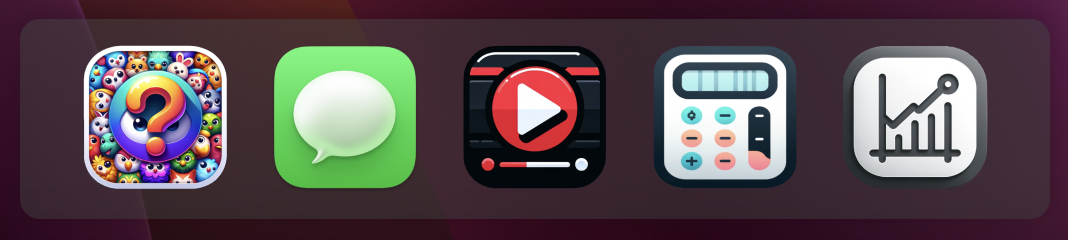
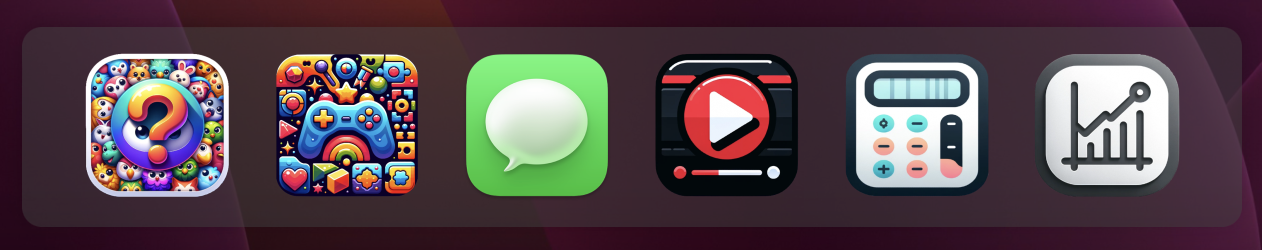
Added game center, a library with html games to play

diff --git a/src/js/gameselector.js b/src/js/gameselector.js
@@ -1,0 +1,90 @@
+/**
+ * Opens a game selection screen with previews for different games.
+ * @param {HTMLElement} container - The container element.
+ */
+export function openGameSelection(container) {
+  container.innerHTML = '';
+  const flappybirdDescription =
+  'Navigate a bird past pipes. ' +
+  'A challenging and addictive game.';
+  const fruitninjahdDescription =
+  'Slice fruits with a blade. ' +
+  'A fast-paced action game for reflexes.';
+  const duckshooterDescription =
+  'Shoot ducks rapidly, don’t miss any. ' +
+  'A nostalgic retro-style game.';
+  const flappybird = createGamePreview('Flappy Bird', 'https://freehtml5games.org/icons/flappy-bird.png', 'https://freehtml5games.org/games/flappy-bird/index.html', container, 330, 512, flappybirdDescription);
+  const fruitninjahd = createGamePreview('Fruit Ninja HD', 'https://freehtml5games.org/icons/fruit-ninja-hd.png', 'https://freehtml5games.org/games/fruit-ninja-hd/index.html', container, 640, 540, fruitninjahdDescription);
+  const duckshooter = createGamePreview('Duck Shooter', 'https://freehtml5games.org/icons/duck-shooter.png', 'https://freehtml5games.org/games/duck-shooter/index.html', container, 640, 360, duckshooterDescription);
+
+  // Append previews to the container
+  container.appendChild(flappybird);
+  container.appendChild(fruitninjahd);
+  container.appendChild(duckshooter);
+}
+
+/**
+ * Creates a game preview element with the specified properties.
+ *
+ * @param {string} title - The title of the game.
+ * @param {string} imageUrl - The URL of the game's image.
+ * @param {string} gameUrl - The URL of the game.
+ * @param {HTMLElement} container - The container element.
+ * @param {number} width - The width of the game container.
+ * @param {number} height - The height of the game container.
+ * @param {string} description - The description of the game.
+ * @return {HTMLElement} - The created game preview element.
+ */
+function createGamePreview(
+    title, imageUrl, gameUrl, container, width, height, description,
+) {
+  const previewContainer = document.createElement('div');
+  previewContainer.className = 'game-preview-container';
+
+  const preview = document.createElement('div');
+  preview.className = 'game-preview';
+  preview.title = title;
+  preview.style.backgroundImage = `url(${imageUrl})`;
+
+  // Create the description element
+  const descriptionElem = document.createElement('div');
+  descriptionElem.className = 'game-description';
+  descriptionElem.textContent = description;
+
+  // Event listener to load the game on click
+  const loadSelectedGame = () => loadGame(gameUrl, container, width, height);
+  preview.addEventListener('click', loadSelectedGame);
+
+  // Append the preview and description to the container
+  previewContainer.appendChild(preview);
+  previewContainer.appendChild(descriptionElem);
+
+  return previewContainer;
+}
+
+
+/**
+ * Loads a game into the specified container with the given dimensions.
+ * @param {string} gameUrl - The URL of the game to load.
+ * @param {HTMLElement} container - The container element to load the game into.
+ * @param {number} width - The width of the game iframe.
+ * @param {number} height - The height of the game iframe.
+ */
+function loadGame(gameUrl, container, width, height) {
+  const iframe = document.createElement('iframe');
+  container.innerHTML = '';
+  iframe.className = 'game-iframe';
+  iframe.src = gameUrl;
+  iframe.width = width;
+  iframe.height = height;
+  iframe.frameBorder = '0';
+  iframe.scrolling = 'no';
+  iframe.allowFullscreen = true;
+  iframe.style.display = 'block';
+
+  container.appendChild(iframe);
+  height = height + 33;
+  const detail = {width, height};
+  const gameSelectedEvent = new CustomEvent('gameSelected', {detail});
+  container.dispatchEvent(gameSelectedEvent);
+}

diff --git a/src/js/script.js b/src/js/script.js
@@ -3,11 +3,13 @@ import {openYouTubeApp} from './youtubePlayer.js';
 import {openChatApp} from './chat.js';
 import {loadMemoryGame} from './memory.js';
 import {openCalculatorApp} from './calculator.js';
+import {openGameSelection} from './gameselector.js';
 import memoryGameIcon from '../img/memory.png';
 import chatIcon from '../img/messages.png';
 import youtubeIcon from '../img/youtube.png';
 import taskManagerIcon from '../img/taskManager.png';
 import calculatorIcon from '../img/calculator.png';
+import gamecenterIcon from '../img/gamecenter.png';
 
 
 document.addEventListener('DOMContentLoaded', () => {
@@ -22,6 +24,7 @@ document.addEventListener('DOMContentLoaded', () => {
   addListener('youtube-icon', 'Youtube');
   addListener('task-icon', 'Task Manager');
   addListener('calculator-icon', 'Calculator');
+  addListener('gamecenter-icon', 'Game Center');
   /**
    * Adds a click event listener to the element with the specified id.
    * @param {string} id - The id of the element.
@@ -59,6 +62,9 @@ document.addEventListener('DOMContentLoaded', () => {
         break;
       case 'Calculator':
         iconSrc = calculatorIcon;
+        break;
+      case 'Game Center':
+        iconSrc = gamecenterIcon;
         break;
     }
     const desktop = document.getElementById('desktop');
@@ -99,6 +105,17 @@ document.addEventListener('DOMContentLoaded', () => {
         break;
       case 'Calculator':
         openCalculatorApp(contentContainer);
+        windowElement.style.zIndex = ++currentZIndex;
+        updateActiveWindowTitle();
+        break;
+      case 'Game Center':
+        openGameSelection(contentContainer);
+        windowElement.style.height = '580px';
+        windowElement.style.width = '400px';
+        contentContainer.addEventListener('gameSelected', (e) => {
+          windowElement.style.width = e.detail.width + 'px';
+          windowElement.style.height = e.detail.height + 'px';
+        });
         windowElement.style.zIndex = ++currentZIndex;
         updateActiveWindowTitle();
         break;

diff --git a/src/css/gameselector.css b/src/css/gameselector.css
@@ -1,0 +1,59 @@
+.game-preview {
+    width: 250px; /* Adjust width as needed */
+    height: 150px; /* Adjust height as needed */
+    background-size: cover;
+    background-position: center;
+    margin: 10px;
+    border-radius: 10px;
+    box-shadow: 0 4px 8px rgba(0 0 0 / 20%);
+    cursor: pointer;
+    display: flex;
+    align-items: flex-end; /* Aligns title to the bottom */
+    justify-content: center;
+    overflow: hidden;
+    position: relative;
+    transition: transform 0.3s ease, box-shadow 0.3s ease;
+}
+
+.game-preview:hover {
+    transform: scale(1.05);
+    box-shadow: 0 6px 12px rgba(0 0 0 / 30%);
+}
+
+.game-preview::after {
+    content: attr(title);
+    color: #fff;
+    font-weight: bold;
+    text-shadow: 2px 2px 4px rgba(0 0 0 / 60%);
+    padding: 5px 10px;
+    background-color: rgba(0 0 0 / 50%);
+    width: 100%;
+    text-align: center;
+    box-sizing: border-box;
+    transition: background-color 0.3s ease;
+}
+
+.game-preview:hover::after {
+    background-color: rgba(0 0 0 / 70%);
+}
+
+.game-preview-container {
+    display: flex;
+    align-items: center;
+    justify-content: start;
+    margin-bottom: 20px; /* Space between each game preview */
+}
+
+.game-description {
+    width: 300px;
+    margin-left: 20px;
+    margin-right: 15px;
+    font-size: 14px;
+    color: #333;
+    background: #f9f9f9;
+    padding: 10px;
+    border-radius: 10px;
+    box-shadow: 0 4px 8px rgba(0 0 0 / 20%);
+    transition: box-shadow 0.3s ease;
+}
+

diff --git a/src/index.html b/src/index.html
@@ -11,6 +11,7 @@
     <link rel="stylesheet" href="css/youtubeApp.css">
     <link rel="stylesheet" href="css/taskManager.css">
     <link rel="stylesheet" href="css/calculator.css">
+    <link rel="stylesheet" href="css/gameselector.css">
     <link rel="icon" type="image/png" href="favicon.ico">
 
 </head>
@@ -20,6 +21,9 @@
         <div id="dock">
             <div class="icon-container" id="memory-game-icon" data-tooltip="Memory Game">
                 <div class="icon icon-memory"></div>
+            </div>
+            <div class="icon-container" id="gamecenter-icon" data-tooltip="Game Center">
+                <div class="icon icon-gamecenter"></div>
             </div>
             <div class="icon-container" id="chat-icon" data-tooltip="Messages">
                 <div class="icon icon-chat"></div>
@@ -35,6 +39,7 @@
             </div>
         </div>
     </div>
+    <script type="module" src="js/gameselector.js"></script>
     <script type="module" src="js/calculator.js"></script>
     <script type="module" src="js/statusbar.js"></script>
     <script type="module" src="js/taskManager.js"></script>

diff --git a/src/css/desktop.css b/src/css/desktop.css
@@ -54,6 +54,10 @@ body, html {
     background-image: url('../img/calculator.png');
 }
 
+.icon-gamecenter {
+    background-image: url('../img/gamecenter.png');
+}
+
 
 @keyframes jump {
     0%, 100% {

diff --git a/README.md b/README.md
@@ -43,7 +43,11 @@ The status bar when memory game is open. We are also hovering our mouse over the
 
 ### Calculator Application
 
-<img src="./img/calculator_screenshot.png" alt="Task Manager Screenshot" width="300">
+<img src="./img/calculator_screenshot.png" alt="Calculator Screenshot" width="300">
+
+### Game Center
+
+<img src="./img/game_center_screenshot.png" alt="Game Center Screenshot" width="300">
 
 ### YouTube Player
 
@@ -168,6 +172,23 @@ The Calculator app allows users to perform basic calculations, including additio
 -  Displays an error message in case of invalid input or calculation errors.
 - A 9 character limit is in place to prevent digits from going out of frame
 
+### Game Center
+
+Game Center app is your destination for playing embedded HTML games directly in your web browser. With three games available, the interface automatically adjusts to the size of each game for a tailored experience.
+
+#### How to Use
+
+1. Click on the Game Center icon to open the app.
+2. Select from the available games by clicking on their preview.
+3. The game loads directly in the window, which resizes for optimal gameplay.
+4. To switch games, close the game. Then, reopen Game Center and select another.
+
+#### Features
+
+- Includes popular titles like Flappy Bird, Fruit Ninja HD, and Duck Shooter.
+- The game window resizes according to the game's dimensions.
+- Simple and intuitive interface for game selection and play. 
+
 ### YouTube Player
 
 The YouTube player allows users to load and play YouTube videos within the application.
@@ -196,3 +217,5 @@ Each application has its own `.js` file. When an application is opened, its scri
 All assets are owned by me except for the messages icon, desktop background, apple logo in the top left and sound files for messages. All of these are from macOS, and are used purely for educational purposes (fair use). It is to style it to look like macOS running in a browser. 
 
 Sound effects for memory app are taken from youtube.
+
+Games are embedded and source is from https://freehtml5games.org
